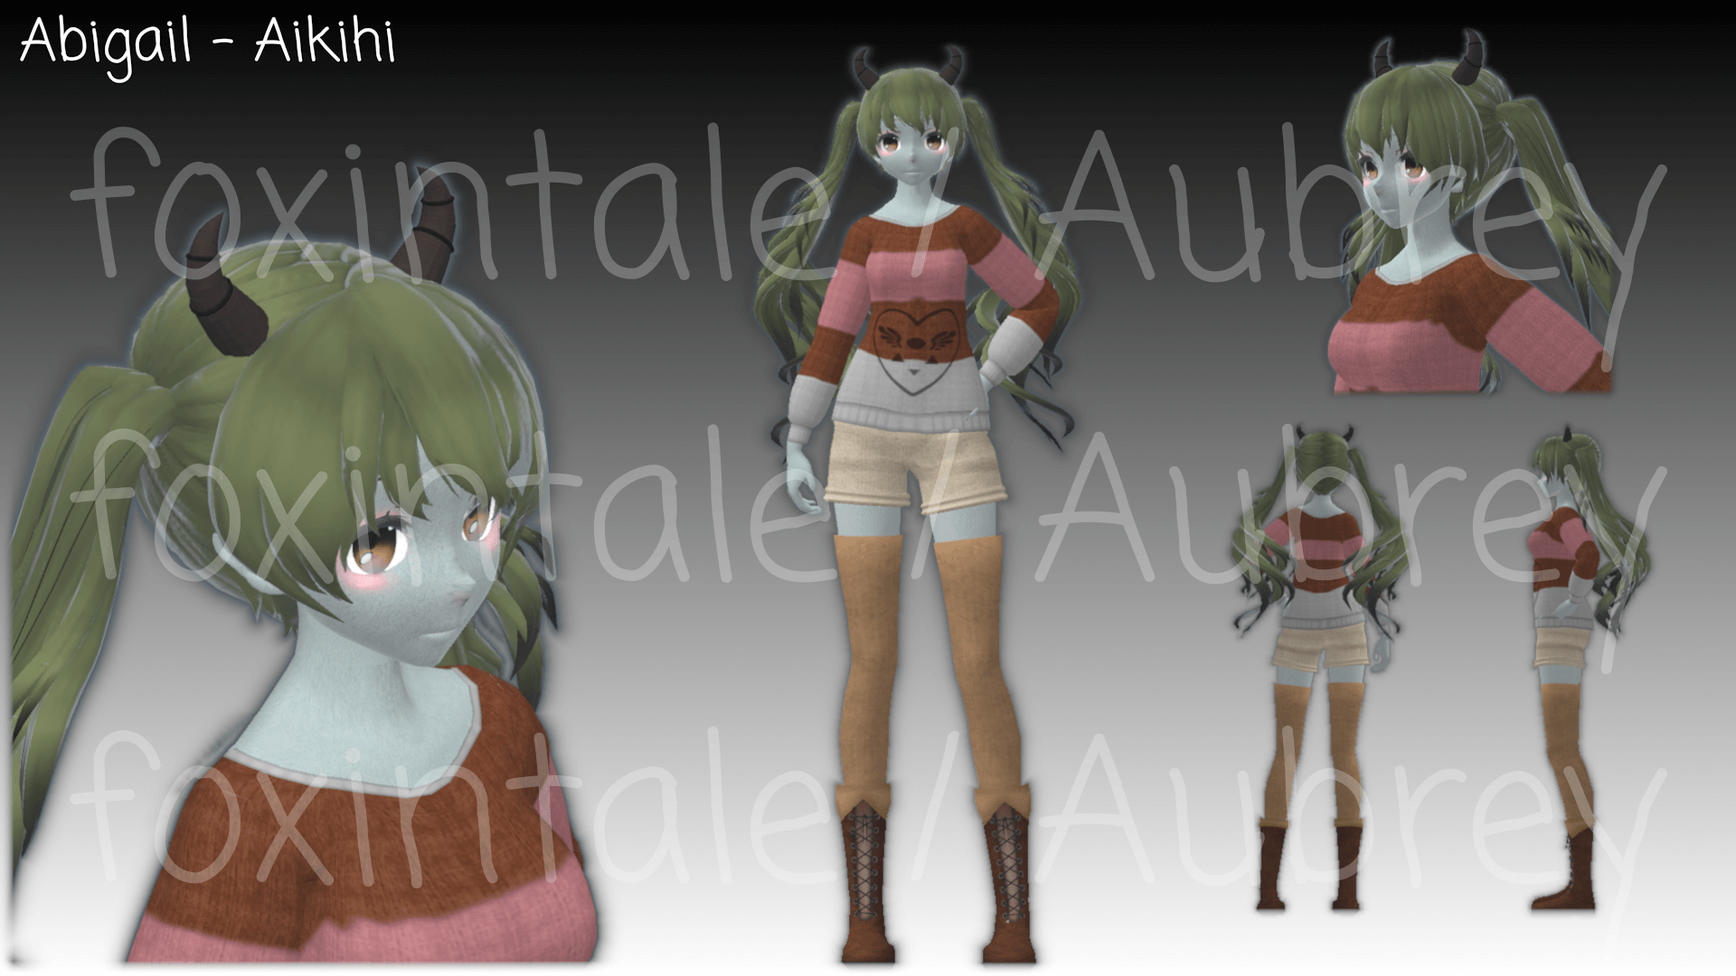
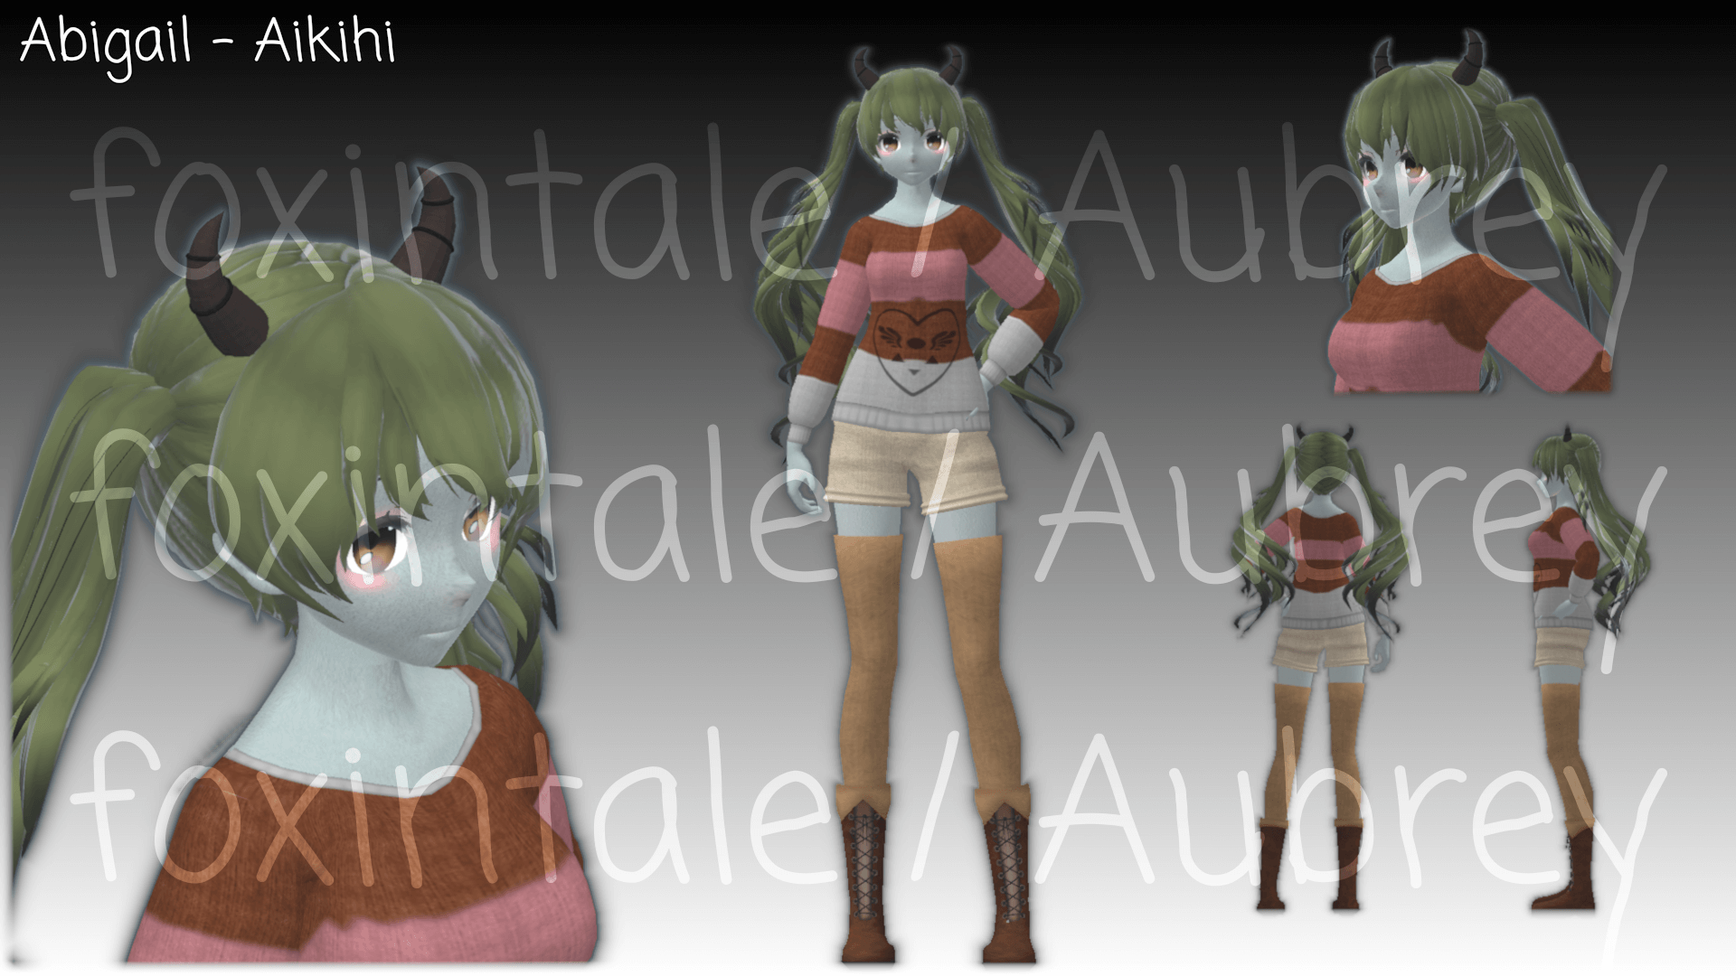
A lot changed.
Re-did all the pics, removed some pics, adjusted the bases I own listed, added the fact I now do Blender work with clothing and more.

diff --git a/commissions.html b/commissions.html
@@ -32,11 +32,11 @@
 					While I specialise in realistic looking fur textures, I can also do flat textures, custom clothing textures, and some solid objects such as props, or world items.
 				</p>
 				<p>
-					Commission cost quotes are free, and the timeframe I aim for is two weeks. 
+					Commission cost quotes are free, and the timeframe I aim for is two to four weeks.  
 					<br />
 					I <b>DO NOT</b> do "Last minute" / "I have an event tomorrow" rush jobs. That is way too stressful. Find someone else.
 				</p>
-				<p>Finally, if the site looks wonky kindly turn your device into landscape mode. I coded it myself so it isn't perfect.</p>
+				<p>Finally, if the site looks wonky kindly turn your device into landscape mode. I coded it myself so it isn't perfect. Still working on mobile compatibility.</p>
 				<br>
 				<h1 id="commissionStatus">Commission Status: <b>CLOSED</b></h1>
 				<!-- I decided on two slots to start off with. -->
@@ -59,7 +59,6 @@
 						<li class="list-group-item" data-placement="left" title="Depends on how painful the model is to work with in substance painter.">Avatar retexture (Fur brushed or detailed): $30 - 70</li>
 						<li class="list-group-item">Clothing retexture: $10 - 30</li>
 						<li class="list-group-item">Prop retextures: $5 - 20</li>
-
 						<li></li>
 						<li class="list-group-item"><h4>Unity Related:</h4></li>
 						<li class="list-group-item">PC only project setup*: $10 - 20</li>
@@ -72,20 +71,19 @@
 						<li class="list-group-item" data-toggle="tooltip" data-placement="left" title="Depends if I need to add a new blendshape in Blender for it to work or not. If the blendshape exists, then it's free.">Headpat and boop reactions: Free - $5</li>
 						<li class="list-group-item" data-toggle="tooltip" data-placement="left" title="Only extra if there are an awful lot of textures. Like over 100 textures which would happen with a lot of assets.">Texture optimization: Free - $5. </li>
 						<li class="list-group-item" data-toggle="tooltip" data-placement="left" title="For flight worlds to keep your physics from flying everywhere when travelling Mach f*ck.">Physics toggle - Free</li>
-
-						<!-- I do not do facetracking setup because I do not currently have the hardware to do so.-->
+		
 						<li></li>
 						<li class="list-group-item"><h4>Blender related</h4></li>
 						<li class="list-group-item">Custom blendshapes: $2 - 5 per.</li>
 						<li class="list-group-item">Specular reflective eyes (If not already present. PC Only.): $2 - 5.</li>
+						<li class="list-group-item">Clothing refits: $10-30
+						<li class="list-group-item">Custom (from scratch) clothing: Inquire for pricing.</li>  
 
 						<li></li>
 						<li class="list-group-item"><h4>Other Content:</h4></li>
 						<li class="list-group-item">Custom (spliced) Avatars: Price varies.</li>
 						<li class="list-group-item">PC optimisation to not be "very poor" ranked: Varies depending on project complexity, but starting is $5</li>
-						<li class="list-group-item" data-toggle="tooltip" data-placement="left" title="Features and clothing will be cut and it may look like hot garbage, because Quest can't handle shit.'">Quest optimisation so Questies can see something that isn't a fallback: See above for pricing.</li>
-						<!-- I thought about putting clothing refits and making custom clothing assets, but I am in the beginning stages of learning this.-->
-						<!-- I could, sure but the results may not be as someone desires and they may not be happy. So I'm choosing to wait until I am more confident and have gotten beter at this..-->
+						<li class="list-group-item" data-toggle="tooltip" data-placement="left" title="Features and clothing will be cut and it may look like hot garbage, because Quest can't handle shit.">Quest optimisation so Questies can see something that isn't a fallback: See above for pricing.</li>
 					</ul>
 				</div>
 				<div class="col-7 box">
@@ -101,13 +99,31 @@
 							<div class="carousel-item">
 								<a href="images\commission\Kaylie V1.png"><img src="images\commission\Thumb\Kaylie V1.png" class="d-block w-100"></a>
 								<div class="carousel-caption d-none d-md-block">
-									<p style="color:black; background-color: rgba(255, 255, 255, 0.75);">A slightly older version of my main avatar.</p>
+									<p style="color:black; background-color: rgba(255, 255, 255, 0.75);">An older version of my main avatar.</p>
 								</div>
 							</div>
 							<div class="carousel-item">
 								<a href="images\commission\Fox Girl.png"><img src="images\commission\Thumb\Fox Girl.png" class="d-block w-100"></a>
 								<div class="carousel-caption d-none d-md-block">
-									<p style="color:black; background-color: rgba(255, 255, 255, 0.75);">The original iteration of the main avatar before I became Fennec.</p>
+									<p style="color:black; background-color: rgba(255, 255, 255, 0.75);">The original iteration of the main avatar before I became Fennec. This is the second one I ever textured.</p>
+								</div>
+							</div>
+							<div class="carousel-item">
+								<a href="images\commission\PaliliaVivi.png"><img src="images\commission\Thumb\PaliliaVivi.png" class="d-block w-100"></a>
+								<div class="carousel-caption d-none d-md-block">
+									<p style="color:black; background-color: rgba(255, 255, 255, 0.75);">Manokit on a different base. I made and textured the clothing from scratch. <br> Shirt decal by <a href="https://sandypaws.shop/" target="_blank">@ssquig.</a></p>
+								</div>
+							</div>
+							<div class="carousel-item">
+								<a href="images\commission\Aileen.png"><img src="images\commission\Thumb\Aileen.png" class="d-block w-100"></a>
+								<div class="carousel-caption d-none d-md-block">
+									<p style="color:black; background-color: rgba(255, 255, 255, 0.75);">An Alicorn OC. Her clothing is refit, and her tail + hair are custom rigged.</p>
+								</div>
+							</div>
+							<div class="carousel-item">
+								<a href="images\commission\Feyrith.png"><img src="images\commission\Thumb\Feyrith.png" class="d-block w-100"></a>
+								<div class="carousel-caption d-none d-md-block">
+									<p style="color:black; background-color: rgba(255, 255, 255, 0.75);">Darbi's Fox Moth with clothing that I, again made from scratch.</p>
 								</div>
 							</div>
 							<div class="carousel-item">
@@ -117,9 +133,23 @@
 								</div>
 							</div>
 							<div class="carousel-item">
+								<a href="images\commission\Keo.png"><img src="images\commission\Thumb\Keo.png" class="d-block w-100"></a>
+								<div class="carousel-caption d-none d-md-block">
+									<p style="color:black; background-color: rgba(255, 255, 255, 0.75);">A Manokit I did for a good friend. Not my character.</p>
+								</div>
+							</div>
+							<!--
+							<div class="carousel-item">
+								<a href="images\commission\Brianna.png"><img src="images\commission\Thumb\Brianna.png" class="d-block w-100"></a>
+								<div class="carousel-caption d-none d-md-block">
+									<p style="color:black; background-color: rgba(255, 255, 255, 0.75);">A basic spotted Yeen. Really, all she's gopt is realistic fur on top of the default colours.</p>
+								</div>
+							</div>
+							-->
+							<div class="carousel-item">
 								<a href="images\commission\Imber.png"><img src="images\commission\Thumb\Imber.png" class="d-block w-100"></a>
 								<div class="carousel-caption d-none d-md-block">
-									<p style="color:black; background-color: rgba(255, 255, 255, 0.75);">Imber the Dutchie.</p>
+									<p style="color:black; background-color: rgba(255, 255, 255, 0.75);">Imber the Dutchie. This one took about a day and a half total.</p>
 								</div>
 							</div>
 							<div class="carousel-item">
@@ -171,17 +201,19 @@
 								</div>
 							</div>
 							<div class="carousel-item">
-								<img src="images\commission\Rylee Kita.png" class="d-block w-100" alt="...">
+								<a href="images\commission\Rylee.png"><img src="images\commission\Thumb\Rylee.png" class="d-block w-100"></a>
 								<div class="carousel-caption d-none d-md-block">
 									<p style="color:black; background-color: rgba(255, 255, 255, 0.75);">Rylee as a Kita'Vali.</p>
 								</div>
 							</div>
+							<!--
 							<div class="carousel-item">
-								<img src="images\commission\Rylee.png" class="d-block w-100" alt="...">
+								<a href="images\commission\Kurena.png"><img src="images\commission\Thumb\Kurena.png" class="d-block w-100"></a>
 								<div class="carousel-caption d-none d-md-block">
-									<p style="color:black; background-color: rgba(255, 255, 255, 0.75);">I went back and remade Rylee with a slightly different base model of the Kita'Vali.</p>
+									<p style="color:black; background-color: rgba(255, 255, 255, 0.75);">The first avatar I ever textured. The base's name is "Kurena".</i></p>
 								</div>
 							</div>
+						-->
 						</div>
 						<button class="carousel-control-prev" type="button" data-bs-target="#carouselExample" data-bs-slide="prev">
 							<span class="carousel-control-prev-icon" aria-hidden="true"></span>
@@ -193,49 +225,60 @@
 						</button>
 					</div>
 					<br>
-					<p>The world used for making these images is "The Avatar Studio", and is PC only currently. I have added the gradient backgrounds and text in Gimp afterwards. You can click or tap on each image to see the full size. <br>
+					<p>The world used for making these images is "The Avatar Studio" by avatown. I have added the gradient backgrounds and text in Gimp afterwards. You can click or tap on each image to see the full size. <br>
 					<br> I'm sorry if you want to see an un-watermarked image, I don't want my work stolen by scammers and claimed as theirs.</p>
 					<br>
+					<p>
+						<a href="https://docs.google.com/spreadsheets/d/1Xi-YpiZhyFjVeHaZCqWroPuteiBx_NbRpOqhWnpCWG0/edit?usp=sharing" target="_blank">Here is a list</a> of all the bases, clothing and assets that I own. <br>
+						Instead of asking "Do you have x?" if it's not on the spreadsheet, I don't have it. <br>
+						This is divided into sheets for each category found at the bottom left area, ordered by date of purchase. 
+						<ul class="list-group">
+							<li>Bases / avatars are under "Bases"</li>
+							<li>Assets is an avatar asset,</li>
+							<li>Clothing is well...clothing</li>
+							<li>Other is anything else I felt didn't fit in the other categories. </li>
+						</ul>
+					</p>
+					<br>
 					<p></p>
+
 				</div>
 				<div class="col-2 box">
 					<ul class="list-group" id="avatarBases">
-						<li class="list-group-item"><h5>Bases that I own:</h5></li>
+						<li class="list-group-item"><h5>Some of the bases that I own:</h5></li>
 						<!-- I'm leaving little spaces and "placeholders" for bases I want. If you're looking at the source of this site for secrets, Hi! Hope you're having a good day. -->
 						<li class="list-group-item"><a href="https://shadethebat.gumroad.com/l/awtter" target="_blank">The Awtter</a></li>
 						<!-- Baby Nardo -->
-						<!-- Cotton Fox -->
-						<li class="list-group-item"><a href="https://lorcanvr.gumroad.com/l/cotton" target="_blank">Cotton by Lorcan</a></li>
 						<li class="list-group-item"><a href="https://darbi.gumroad.com/l/d_otter" target="_blank">Darbi Otter</a></li>
 						<li class="list-group-item"><a href="https://abiboi.gumroad.com/l/Deuzear">Deuzear</a></li>
 						<li class="list-group-item">Da'Vali</li> <!-- There's not really a link for this one that I can provide as it's on Discord. I could provide a server link but most already know what the thing looks like.-->
 						<li class="list-group-item"><a href="https://marivr.gumroad.com/l/Deira" target="_blank">Deira</a></li>
 						<li class="list-group-item"><a href="https://nicoreda.gumroad.com/l/Dergodal" target="_blank">Dergodal</a></li>
-						<li class="list-group-item"><a href="https://meelo3d.gumroad.com/l/NoodleDragon" target="_blank">Dragon Puppet</a></li>
-						<li class="list-group-item"><a href="https://meelo3d.gumroad.com/l/MeeloAngelDragon">Dutch Angel Dragon</a></li>
+						<li class="list-group-item"><a href="https://meelo3d.gumroad.com/l/MeeloAngelDragon">Dutch Angel Dragon (Dutchie)</a></li>
 						<li class="list-group-item"><a href="https://darbi.gumroad.com/l/femalekiggy">Female Kiggy</a></li>
-						<li class="list-group-item"><a href="https://kyderra.gumroad.com/l/Floaxy" target="_blank">Floaxy Deluxe by Kyderra</a></li>
+						<li class="list-group-item"><a href="https://darbi.gumroad.com/l/foxmoth" target="_blank">Fox Moth</a></li>
 						<!-- Grinlin -->
 						<li class="list-group-item"><a href="https://alber.gumroad.com/l/Hyenid" target="_blank">Hyenid</a></li>
 						<li class="list-group-item"><a href="https://wispweaver.gumroad.com/l/JerryAvali" target="_blank">Jerry Avali</a></li>
 						<li class="list-group-item"><a href="https://milofox.gumroad.com/l/KitFox" target="_blank">KitFox</a></li>
 						<li class="list-group-item"><a href="https://nicoreda.gumroad.com/l/Kobodal">Kobodal</a></li>
-						<li class="list-group-item"><a href="https://azmidi.gumroad.com/l/leafygote">Leafygote</a></li>
 						<li class="list-group-item">Kita'Vali</li> <!-- See the comment for the Davali.-->
-						<li class="list-group-item"><a href="https://callistakirin.gumroad.com/l/manokitavatar" target="_blank">Haru's Manokit</a></li>
+						<li class="list-group-item"><a href="https://callistakirin.gumroad.com/l/manokitavatar" target="_blank">Manokit</a></li>
 						<li class="list-group-item"><a href="https://callistakirin.gumroad.com/l/maelstrorca" target="_blank">Maelstrorca</a></li>
-						<li class="list-group-item"><a href="https://naraenda.gumroad.com/l/narachi" target="_blank">Narachi</a></li>
+						<li class="list-group-item"><a href="https://darbi.gumroad.com/l/malekiggy" target="_blank">Male Kiggy</li>
 						<li class="list-group-item"><a href="https://nardoiri.gumroad.com/l/Nardoragon" target="_blank">Nardoragon (Expanded)</a></li>
 						<!-- NKD Protogen -->
+						<li class="list-group-item"><a href="https://kittomatic.gumroad.com/l/Novabeast" target="_blank">Novabeast</a></li>
 						<!-- Regulus -->
 						<li class="list-group-item"><a href="https://rezilloryker.gumroad.com/l/MYutV" target="_blank">Rex</a></li>
 						<li class="list-group-item"><a href="https://nicoreda.gumroad.com/l/sergodal">Sergodal</a></li>
+						<li class="list-group-item"><a href="https://darbi.gumroad.com/l/sweethooves">Sweet Hooves</a></li>
 						<li class="list-group-item"><a href="https://irix.gumroad.com/l/DpDFe">Taidum</a></li>
 						<li class="list-group-item"><a href="https://jinapark.gumroad.com/l/JinsWickerbeast" target="_blank">Wickerbeast King</a></li>
-						<li class="list-group-item"><a href="https://juliawinterpaw.gumroad.com/l/minicanine" target="_blank">Winterpaw's Chibi Mini Canine'</a></li>
+						<li class="list-group-item"><a href="https://juliawinterpaw.gumroad.com/l/minicanine" target="_blank">Winterpaw's Chibi Mini Canine</a></li>
 						<li class="list-group-item"><a href="https://juliawinterpaw.gumroad.com/l/vrchatcanine" target="_blank">Winterpaw's Fem Canine (Complete)</a></li>
 						<li class="list-group-item"><a href="https://juliawinterpaw.gumroad.com/l/canine" target="_blank">Winterpaw's Male Canine</a></li>
-						<li class="list-group-item"><a href="https://hecka.gumroad.com/l/Vixine" target="_blank">Vixine Cat</a></li>
+						<li class="list-group-item">See spreadsheet for complete list.</li>
 					</ul>
 					<hr>
 					<!--
@@ -258,8 +301,8 @@
 				<div class="col-6">
 					<h3>Commission Info:</h3>
 					<ul class="list-group" id="commInfo">
-						<li class="list-group-item">Contact me over Discord at "foxintale". Please don't just say "hi" or "hello" <a href="https://nohello.net/en/">I won't respond.</a> Nothing personal, it's annoying.</li> <!-- It really is annoying when you get a "hi" and literally nothing more isn't it..-->
-						<li class="list-group-item">I aim for within two weeks, but do not hold me to that. In addition to working a full time, second shift job in retail, I may take periodic breaks of a day or two to avoid burnout. A month is the absolute longest it will take.</li>
+						<li class="list-group-item">Contact me over Discord at "foxintale". Please don't just say "hi" or "hello" <a href="https://nohello.net/en/" target="_blank">I won't respond.</a> Nothing personal, it's annoying.</li> <!-- It really is annoying when you get a "hi" and literally nothing more isn't it..-->
+						<li class="list-group-item">I aim for within two to four weeks, but do not hold me to that. In addition to working a full time, second shift job in retail, I may take periodic breaks of a day or two to avoid burnout. A month is the absolute longest it will take.</li>
 						<li class="list-group-item">If you want a base re-textured that I do not have, if you purchase it for me then the commission price is halved or free depending on the cost of the base.</li> <!-- If the base is equal to or greater than the comission cost the commission is free, if it is less than the base cost then the commission is 50% off.-->
 						<li class="list-group-item">
 							Once comissioned, if you like I can livestream progress via Discord DMs if you would like.<br>
@@ -273,7 +316,9 @@
 					<ul class="list-group">
 						<li class="list-group-item">I also do clothing refits, though as I am still in the early stages of learning this results may not be as desired.</li>
 						<li class="list-group-item">I do avatar edits as well, and the same applies as to refits. I'm still learning. Though I'm always willing to give a go at something to see if I can do it.</li>
-						<li class="list-group-item">As such with these items, prices on these are negotiable. Keep in mind that I am still learning and these may make the commission take longer than a re-texture timeframe.</li>
+						<li class="list-group-item"></li>
+						<li class="list-group-item">Custom clothing is now something I offer, however depending on the complexity of the clothing the price can vary wildly.</li>
+						<li class="list-group-item"></li>
 					</ul>
 				</div>
 
@@ -287,12 +332,12 @@
 						<li class="list-group-item">I will not spring additional costs on you without telling you, and will run it by you before doing anything.</li> <!-- Such as purchasing additional bases or components for avatar splicing.-->
 						<li class="list-group-item">I won't do heavily NSFW content, but if you have a request for that feel free to ask a lemon anyways, just know I may not be able to do it.</li> <!-- Lemon. Lemon. Lemon. Stops having any meaning if you say it enough.-->
 						<!-- It's mostly like heavily lewd stuff and questionable things I won't do. Or if the original species creator does not want them used in NSFW context like the Manokit.-->
-						<li class="list-group-item">If you are not happy with the result(s) please let me know and I will try my best to make it right where I can..</li>
+						<li class="list-group-item">If you are not happy with the result(s) please let me know and I will try my best to make it right where I can.</li>
 					</ul>
 					<br>
 					<h3>Payment:</h3>
 					<ul class="list-group" id="paymentTerms">
-						<li class="list-group-item">I take paypal only, as it works out for both of us in the end should anything happen.</li>
+						<li class="list-group-item">I take paypal for the most part, but am open to other options except CashApp. </li>
 						<li class="list-group-item">Payment works in a 50/50 type deal. 50% of the initial cost upfront after all details are discussed, then the other 50% upon completion to recieve the commission.</li>
 						<li class="list-group-item">Upon the second half of payment, I will then send the completed commission over, and if needed work with you to upload it.</li>
 						<li class="list-group-item">HOWEVER: If you do not pay, I reserve the right to: If it is a retexture, sell the retexture on Gumroad, or make it public in my commission world.. If it an avatar edit (or clothing / prop), it will be made public, and uploaded to my commission world.</li>
@@ -302,7 +347,7 @@
 		</div>
 	</main>
 	<footer>
-		&copy; Aubrey Jane - 2024.
+		&copy; Aubrey Jane - 2025.
 	</footer>
 </body>
 </html> 

diff --git a/about.html b/about.html
@@ -30,7 +30,7 @@
             <div class="row">
                 <div class="card">
                     Howdy! I'm Aubrey and thanks for checking out the about me page.
-                    I am a 24 year old trans woman (she/hers) from southwestern Ohio. I like to call myself a jack of all trades, master of none who specialises in some areas.
+                    I am a 25 year old trans woman (she/hers) from southwestern Ohio. I like to call myself a jack of all trades, master of none who specialises in some areas.
                     I've done all sorts of things, from texture work, to programming, 3D modelling shenanigans and more.
                 </div>
 
@@ -57,11 +57,12 @@
                     Next thing I did after this was make a battery mod for Subnautica and made textures for it. Then I got to playing around with what I was trying to do before Painter, which was to create a custom goat race in Skyrim. Took me quite a while but I got it done after about a month or two.
                     I had also figured out how to do outfit re-textures in Skyrim during this journey. About a year and a half pass of me playing with Painter off and on, refining my skills and learning how Skyrim's texture formats work.<br><br>
                     <br ><br />
-                    More time passes until August 2022 when I discovered VR Chat. At this point, I already had about two years of texture experience under my belt so the most difficulty of making avatars was figuring out Unity itself and how it worked. 
+                    More time passes until late July of 2022 when I discovered VR Chat. At this point, I already had about two years of texture experience under my belt so the most difficulty of making avatars was figuring out Unity itself and how it worked. 
                     This took the better part of three to four months before I was able to easily do anything more than simple toggles and importing packages. After more time passes I felt confident enough to start doing commissions. <br><br>
 					
 					Along the way, I was tooling around with Blender using my tried and true method of "Mess around and find out". After enough time of doing so, I can say I can do some refits, simple custom props and some splicing.
-                    
+                    I have started learning how mto make custom clothing, and some assets. Clothing took a bit to get the hang of, but I'm improving the more I work on it. 
+                    I can't yet make an avatar from complete scratch, but I'll get there eventually in due time.
                     
                     <a href="https://www.nexusmods.com/subnautica/mods/798" class="card-link" target="_blank">Link to the Subnautica mod.</a>
                 </div>
@@ -90,7 +91,7 @@
         <br>
     </main>
     <footer>
-        &copy; 2024
+        &copy; 2025
     </footer>
 </body>
 

diff --git a/index.html b/index.html
@@ -26,13 +26,12 @@
       <p>
         Welcome to the home of my projects. Past, present and future. 
 
-        Current project is re-working this website to use modern frameworks as opposed to from scratch.
-
+        
       </p>
     </section>
 </main>
   <footer>
-    &copy; Website built from scratch using Bootstrap in 2024.
+    &copy; Website built from scratch in 2025.
   </footer>
 </body>
 </html> 
